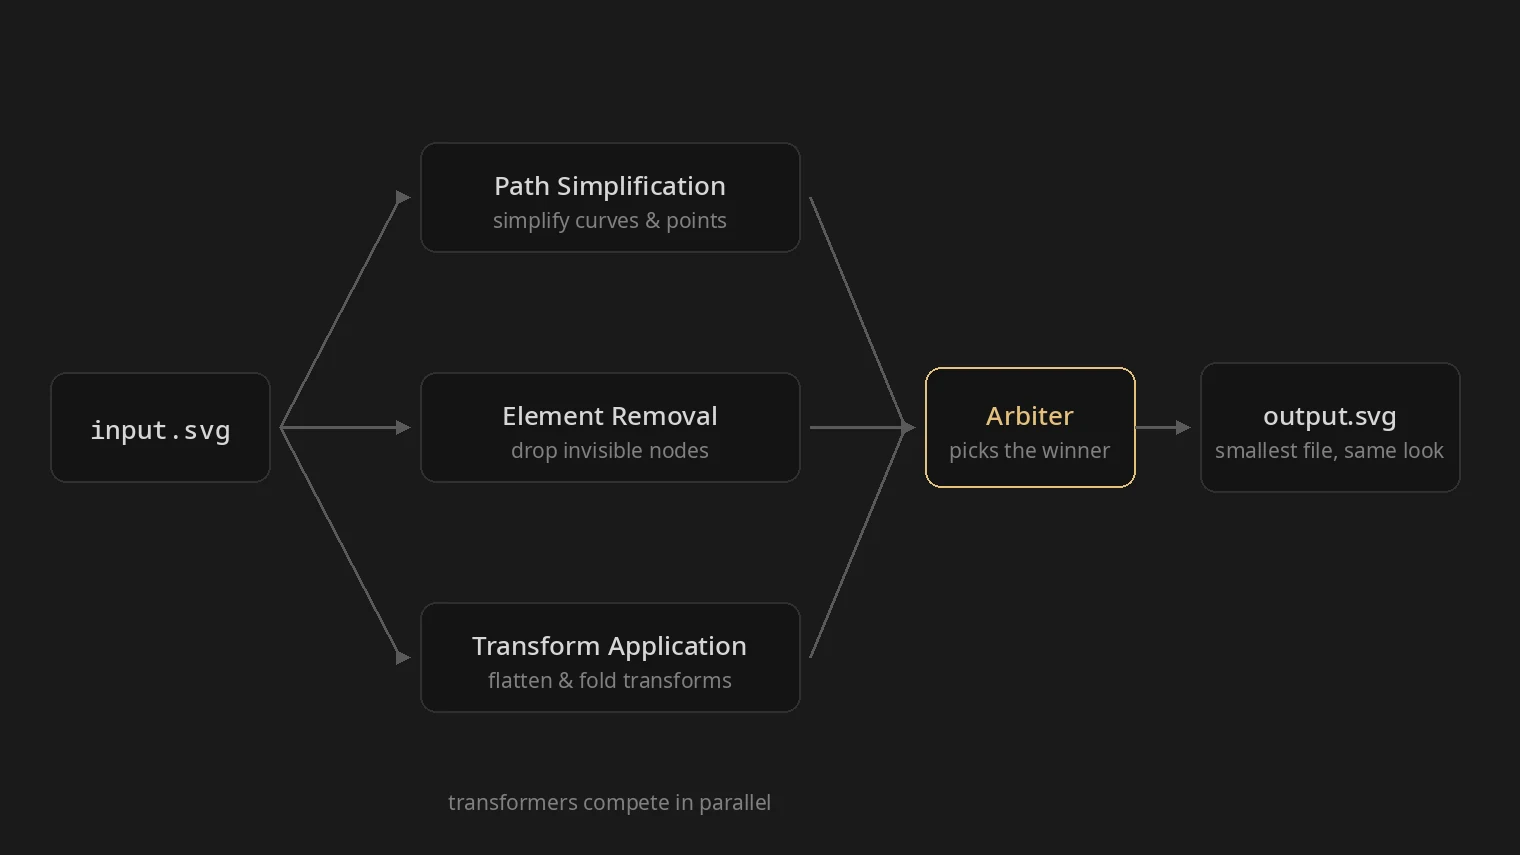
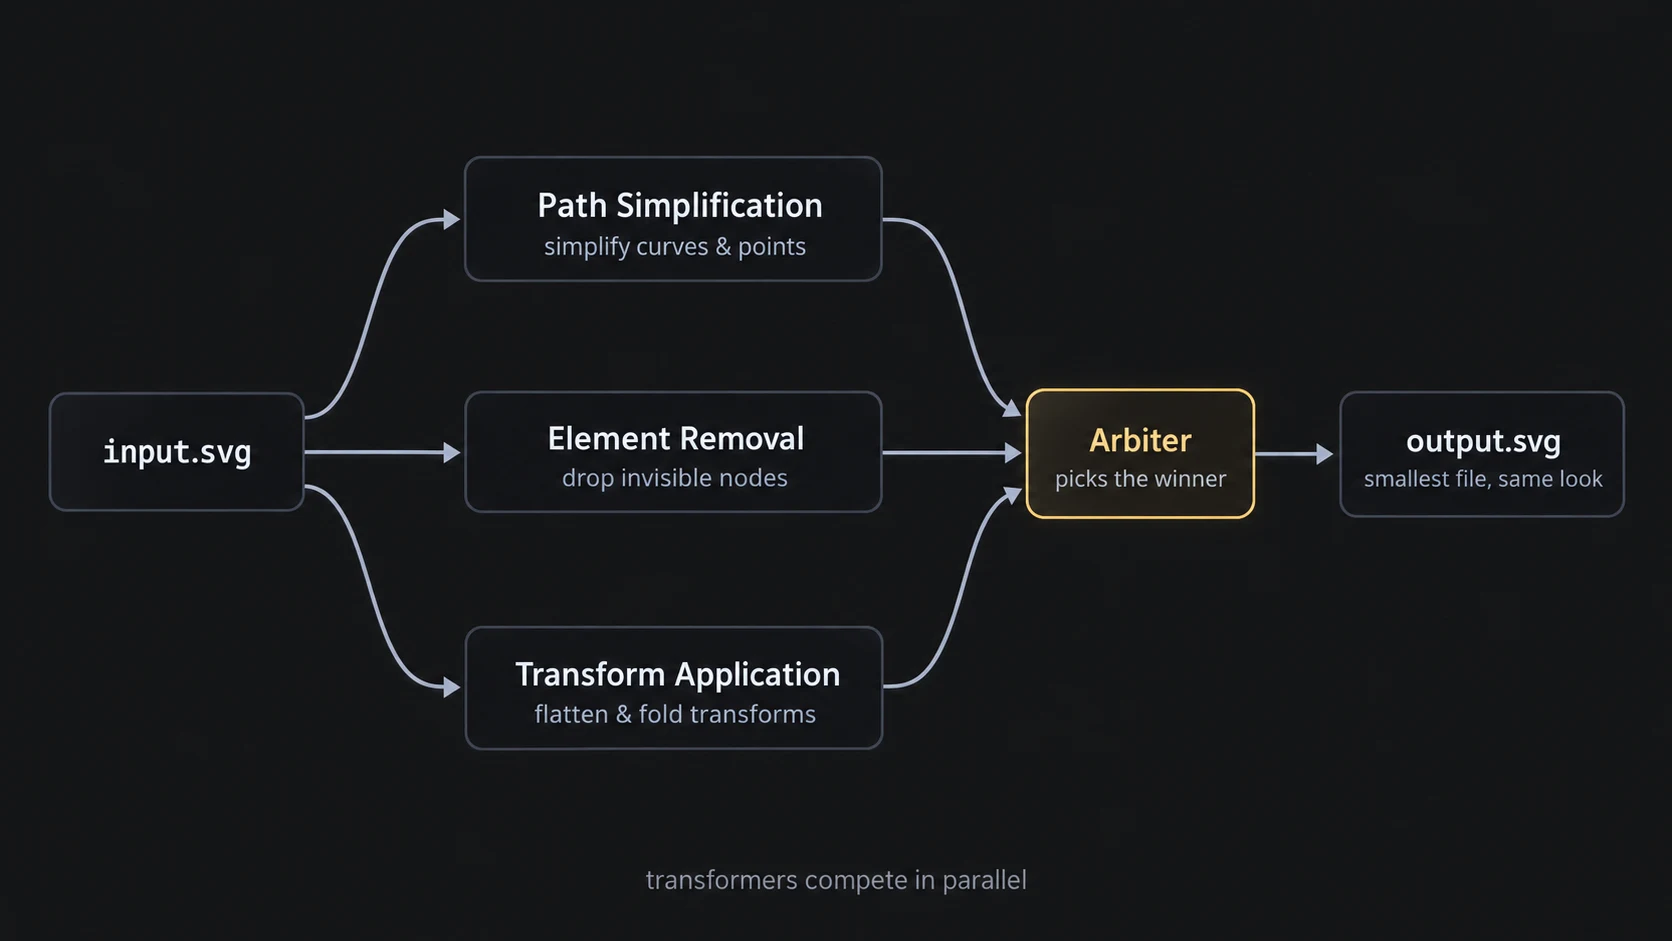
chore: update videos and esvg project image

diff --git a/src/data/videos.ts b/src/data/videos.ts
@@ -1,5 +1,54 @@
 const videos: Video[] = [
   {
+    id: "__WG3mXxd1Q",
+    title: "Qt - Quietly Powering UIs Everywhere for Over 30 Years",
+    summary: "Explores Qt's long history, its role in KDE and the wider software ecosystem, and how it powers desktop, embedded, automotive, medical, and industrial interfaces.",
+    tags: ["C++", "Desktop Development"],
+    date: "2026-09-23",
+  },
+  {
+    id: "v9J_8p6okJM",
+    title: "Learning Linux System Programming by Building a Task Manager",
+    summary: "Builds a Linux system monitor while exploring uname(), the /proc filesystem, process information, memory usage, and CPU utilization.",
+    tags: ["Linux", "Systems Programming"],
+    date: "2026-09-07",
+  },
+  {
+    id: "MiMB3a04PR8",
+    title: "How Do You Edit the Same File on Two Computers? CRDTs Explained",
+    summary: "Explains how Conflict-free Replicated Data Types let multiple users or devices edit the same file, and how updates can converge across replicas.",
+    tags: ["Distributed Systems", "Software Engineering"],
+    date: "2026-08-24",
+  },
+  {
+    id: "HudwhNMWyHc",
+    title: "How Immediate Mode GUIs Work - Building a Button - Zig & Raylib",
+    summary: "Builds an immediate mode GUI button from scratch with Zig and Raylib, drawing the widget and handling its size, hover state, and interaction.",
+    tags: ["Zig", "GUI"],
+    date: "2026-07-29",
+  },
+  {
+    id: "m0nI2IP_6dw",
+    title: "Zig First Impressions",
+    summary: "A hands-on first look at Zig, exploring its syntax, allocators, memory management, and tooling through experiments with the language.",
+    tags: ["Zig", "Programming Languages"],
+    date: "2026-07-22",
+  },
+  {
+    id: "-3oDS9icMKQ",
+    title: "How I Build Native Apps for Windows, macOS, iOS & Android",
+    summary: "Shows how to share application logic through a Rust library while building native interfaces with WinUI 3, SwiftUI, and platform-specific Android tools.",
+    tags: ["Rust", "Cross-Platform Development"],
+    date: "2026-07-19",
+  },
+  {
+    id: "GC3prVZ4nc4",
+    title: "Sharing Code Between Native macOS and iOS Apps",
+    summary: "Explains how to share data models and file handling between native macOS and iOS apps while keeping platform-specific code separate.",
+    tags: ["Swift", "macOS", "iOS"],
+    date: "2026-07-05",
+  },
+  {
     id: "JhDRDa6193A",
     title: "I Built a Native macOS App with SwiftUI - Here's What I Learned",
     summary: "A practical look at building Budget Warden as a native macOS app with Swift and SwiftUI, covering language design, error handling, concurrency, state, and app architecture.",
